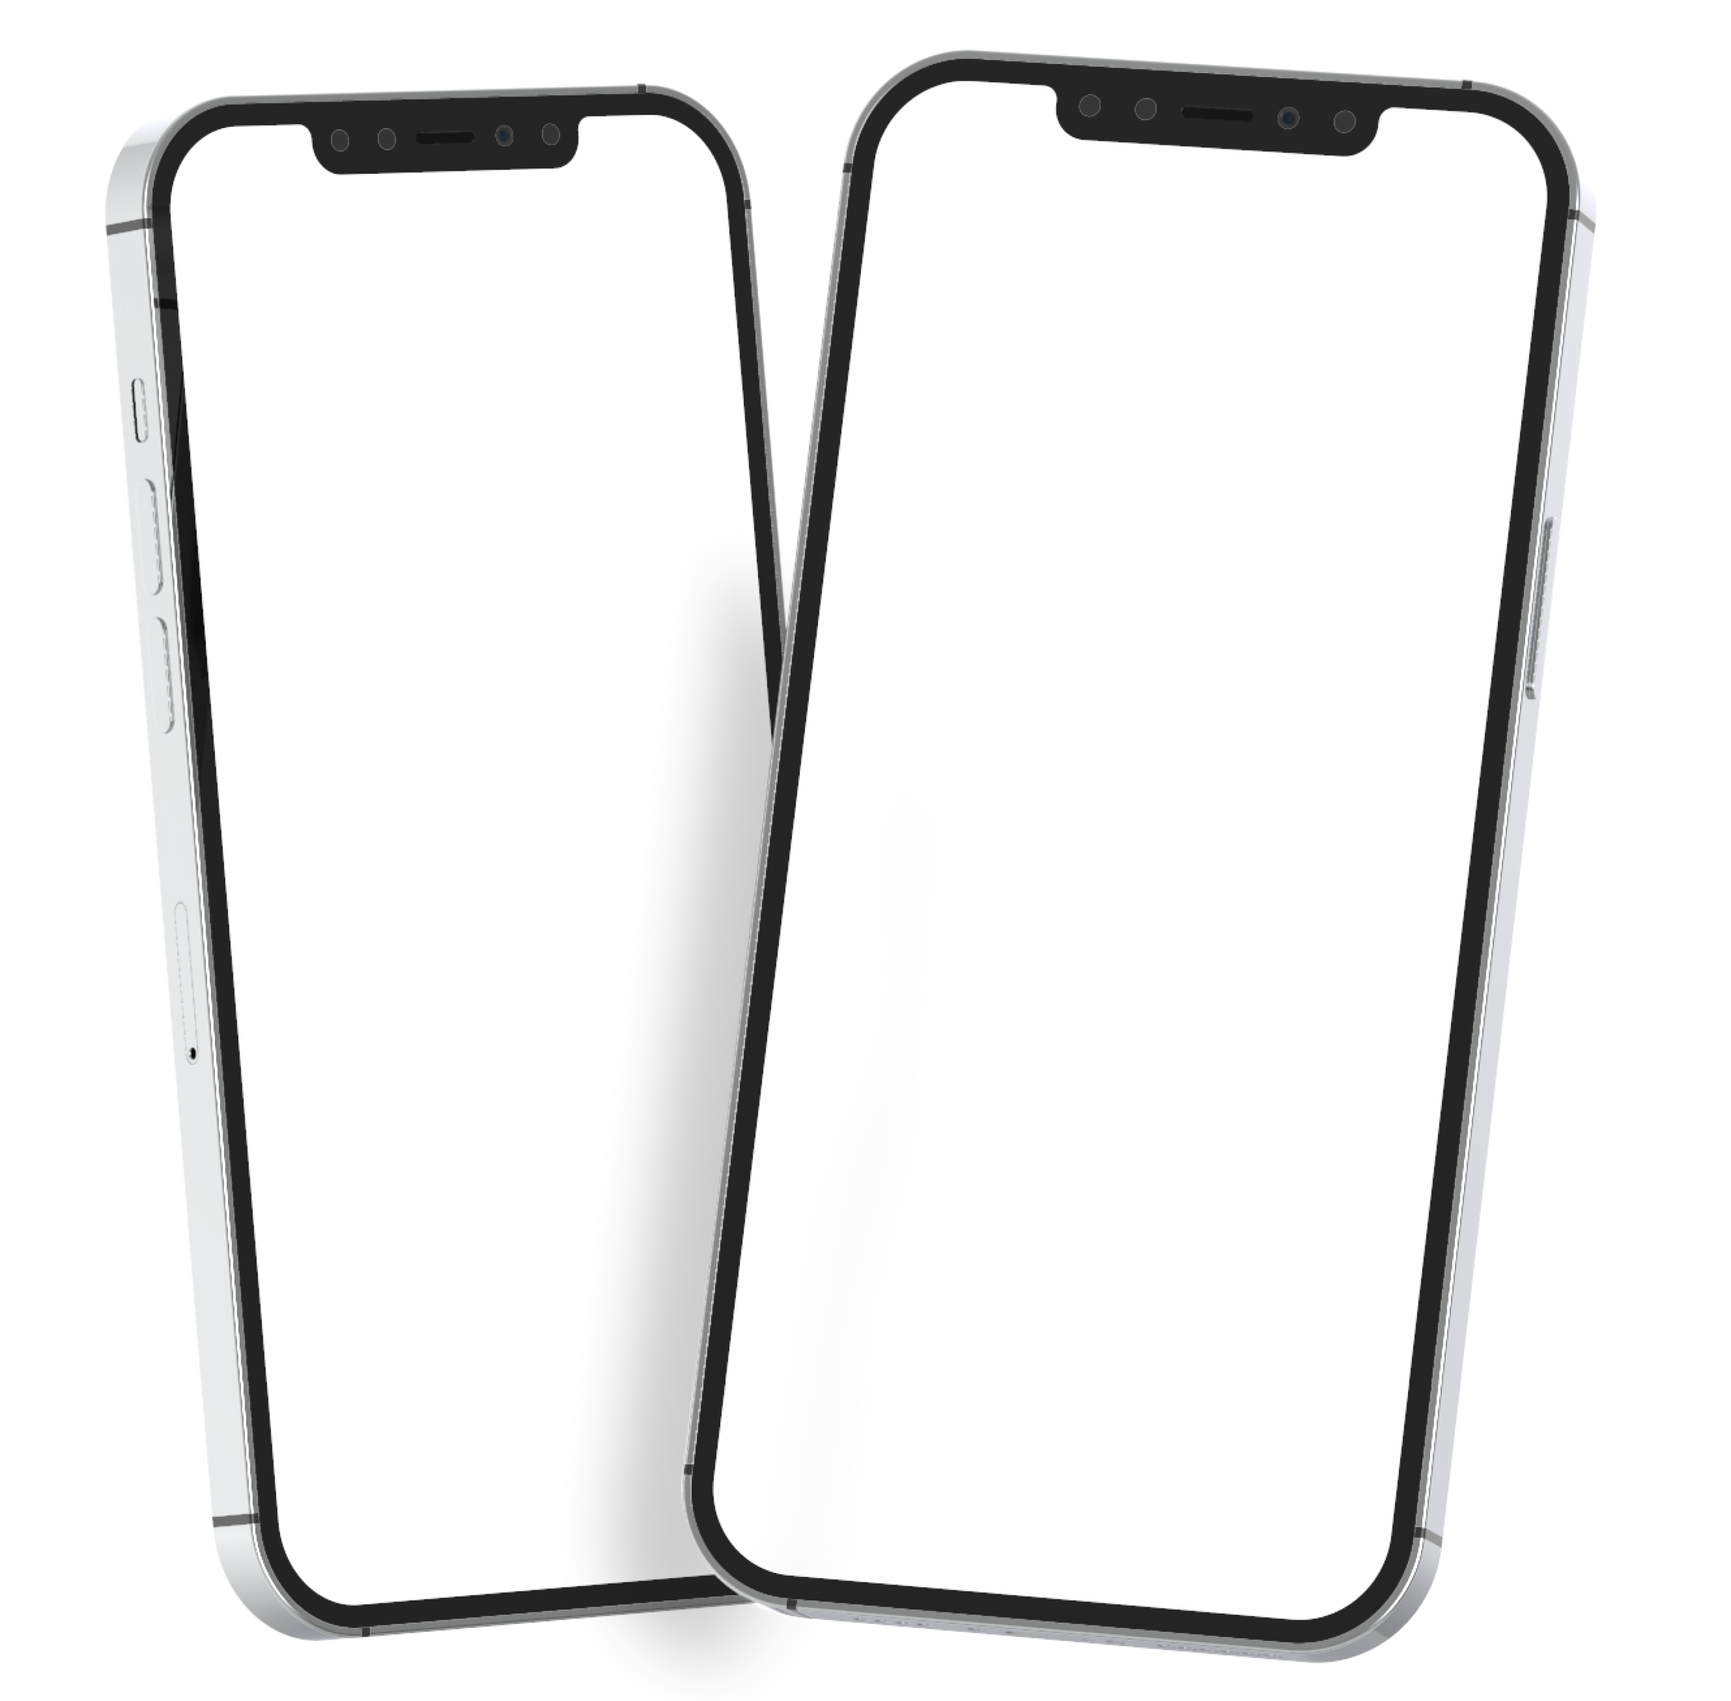
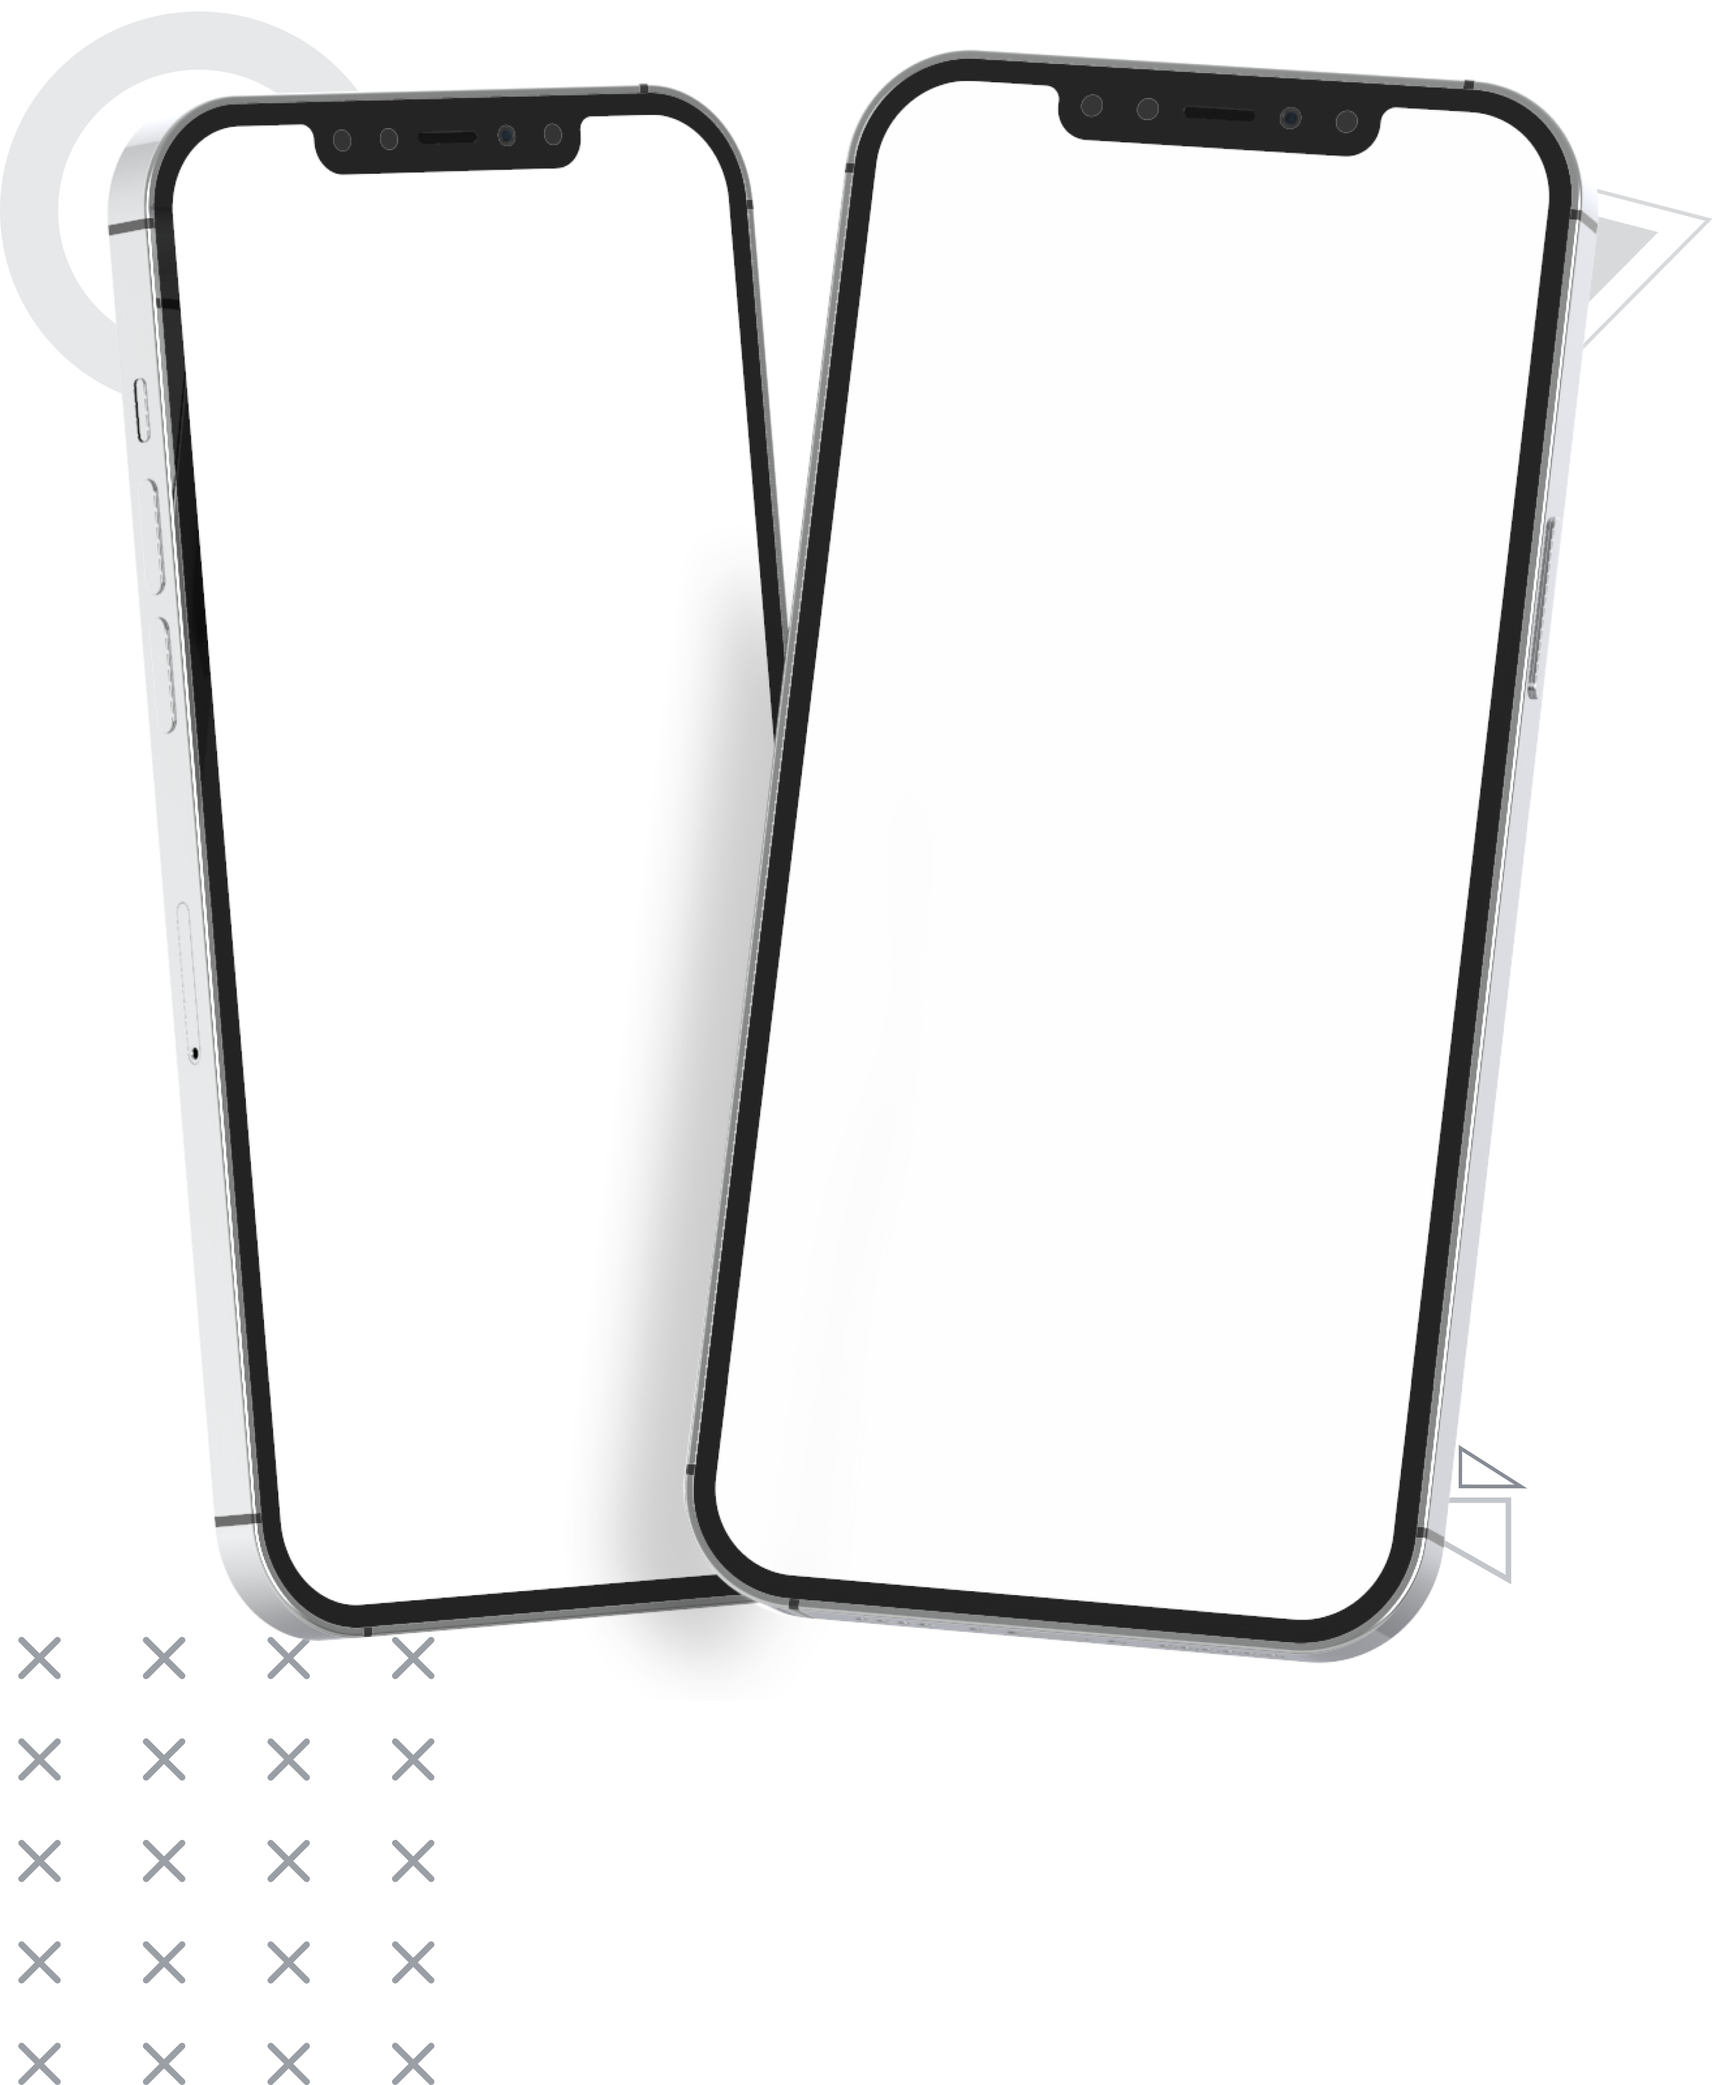
merge code

diff --git a/src/components/Header.jsx b/src/components/Header.jsx
@@ -1,17 +1,25 @@
-import React from 'react'
-
+import React from "react";
+import mobile from "../assets/images/webp/mobiles.webp";
 const Header = () => {
-    return (
-        <>
-            <div className="bg-grey">
-                <div className="max-w-[1464px] px-3 mx-auto">
-                    <div className="flex lg:justify-between items-center">
-                        <div className="flex flex-col "><h1 className="ff-poppins font-bold text-xxl max-w-[640px]">Easily find arts events and support local artists</h1> </div>
-                    </div>
-                </div>
+  return (
+    <>
+      <div className="bg-grey">
+        <div className="max-w-[1464px] px-3 mx-auto">
+          <div className="flex lg:justify-between mt-[72px] items-center">
+            <div className="flex flex-col ">
+              <h1 className="ff-poppins font-bold text-xxl max-w-[640px] leading-[113%]">
+                Easily find arts events and
+                <span className="text-golden"> support local artists</span>
+              </h1>
             </div>
-        </>
-    )
-}
+            <div>
+              <img className="max-w-[757px]" src={mobile} alt="mobile" />
+            </div>
+          </div>
+        </div>
+      </div>
+    </>
+  );
+};
 
-export default Header
+export default Header;
